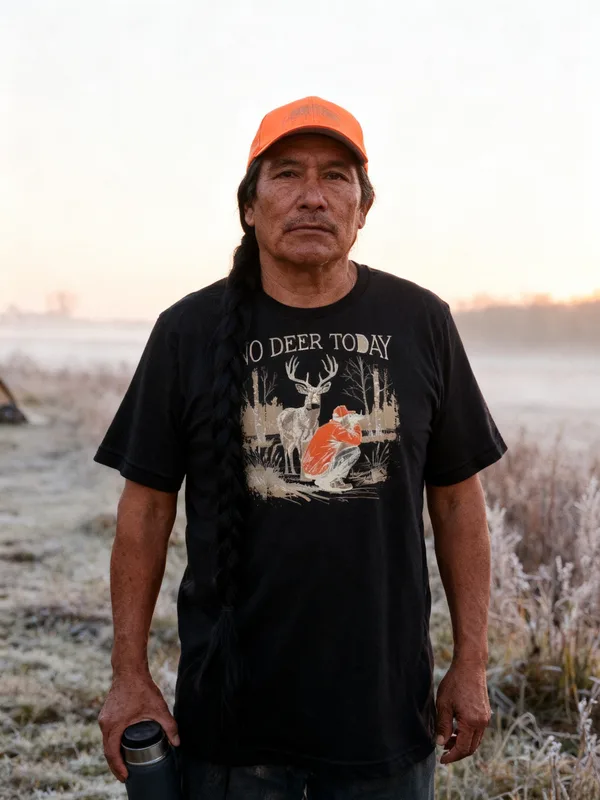
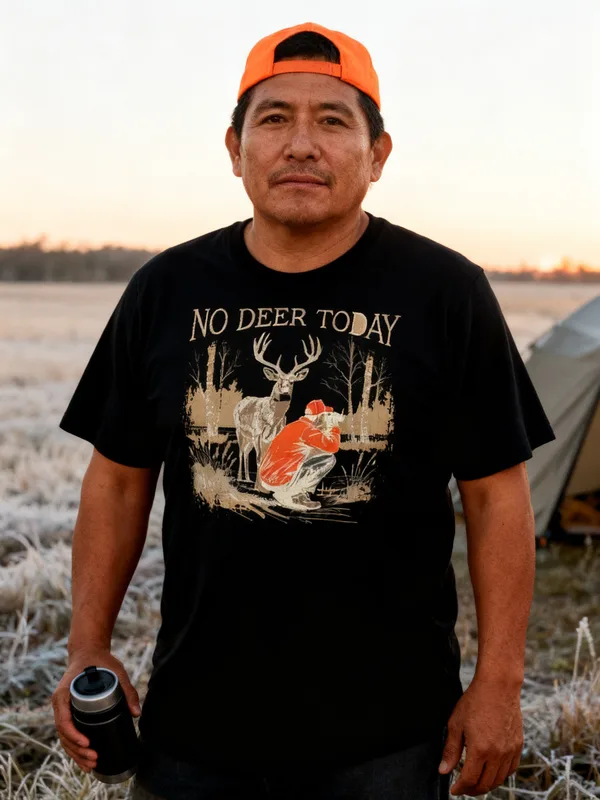
[B] redo 157 cover -> review

diff --git a/src/data/covers.ts b/src/data/covers.ts
@@ -25,7 +25,7 @@ export const covers: Record<string, { src: string; alt: string }> = {
   'unisex-christmas-fresh-cut-christmas-trees-graphic-tee': { src: '/covers/unisex-christmas-fresh-cut-christmas-trees-graphic-tee.webp', alt: 'Man and woman at a Christmas tree farm next to a red vintage pickup wearing the Fresh Cut Christmas Trees tee' },
   'unisex-christmas-cabin-christmas-graphic-tee': { src: '/covers/unisex-christmas-cabin-christmas-graphic-tee.webp', alt: 'Man and woman outside a snowy log cabin at dusk with warm window light and Christmas lights on the porch wearing the Cabin Christmas tee' },
   'womens-thanksgiving-give-thanks-graphic-tee': { src: '/covers/womens-thanksgiving-give-thanks-graphic-tee.webp', alt: 'Woman at an outdoor Thanksgiving table in the backyard wearing the Give Thanks tee' },
-  'mens-hunting-first-light-buck-graphic-tee': { src: '/covers/mens-hunting-first-light-buck-graphic-tee.webp', alt: 'Man with a long braid and a blaze-orange cap holding a thermos at a frosty deer camp at dawn, wearing the No Deer Today tee' },
+  'mens-hunting-first-light-buck-graphic-tee': { src: '/covers/mens-hunting-first-light-buck-graphic-tee.webp', alt: 'Man with short black hair and a blaze-orange cap holding a thermos at a frosty deer camp at dawn, wearing the No Deer Today tee' },
   'mens-hunting-marsh-morning-graphic-tee': { src: '/covers/mens-hunting-marsh-morning-graphic-tee.webp', alt: 'Man with a white beard in waders at a marsh edge at dawn with duck decoys and a thermos, wearing the Quack of Dawn tee' },
   'unisex-western-desert-rider-graphic-tee': { src: '/covers/unisex-western-desert-rider-graphic-tee.webp', alt: 'Man and woman at a horse ranch at sunset leaning on a corral fence wearing the Desert Rider tee' },
   'mens-gym-iron-sweat-graphic-tee': { src: '/covers/mens-gym-iron-sweat-graphic-tee.webp', alt: 'Man with a trimmed goatee holding a water bottle in a retro neighborhood gym, wearing the Sore Since 1987 tee' },

diff --git a/docs/intake-log.md b/docs/intake-log.md
@@ -1,4 +1,5 @@
 2026-10-16 18:44 UTC — [H] Helper run: Telegram inbox empty (getUpdates returned no messages, nothing to consume). Audit: 184 live products, 0 errors, 7 warnings (polish only, left alone); no price, SEO or collection errors to fix. Announcement bar already reads the holiday line (R12.3). Site freshness: #191 nutcracker bow hoodie, #190 highland cow hoodie, #184 clean plate club hoodie all return 200. Stuck check: none. Lane A last commit 18:30, lane B committed 18:41 (its RUNNING line is from 16:36 but the lane is active, so no alert). Daily summary already sent today (12:43). Lock released.
+2026-10-16 18:44 UTC — [B] REVIEW #157 (redo): cover only (R6.9 redo): new model (registry row 400, short cropped hair) so nothing crosses the print, generated from the Black mockup with 3 images per call, covers.ts alt updated. #227's long-braid row is retired.
 2026-10-16 18:41 UTC — [B] REVIEW #165 (redo): in-place redo of the ACTIVE product: new Recraft art (Conflict Resolution, try 1), single original-ink file for all 4 light colors, 30 variants re-syncing, new mockups + variant images + cover (#235, 3 images per call, best kept), copy unchanged (still accurate).
 2026-10-16 18:35 UTC — [D] Director run 7: 27 REVIEW items. LIVE (ACTIVE + Online Store + Headless, audit --handle PASS): #146 Define Naughty tee, #148 Jolly-ish, #189 Vintage Santa hoodie, #200 Penguins hoodie, #177 Opening Day zip, #179 Kaiju Naps + #180 Mecha Mondays oversized, #181 Matcha cropped, #186 Slurp, #187 Low Battery, #188 Lake Life hoodies, embroidery pilot #192 #196 #197, men's redos #153 #154 #155 #156 #158 #163. REDO: #147 #178 #185 #150 #157 (covers: cup over words, sherpa hood, dropped word, redrawn print, braid over the first word), #198 (default font), #199 (steam reads as ?). Copy fixes: 146/189 production notes, 196 olive→leafy, 197 thread color; cover alts in covers.ts. Rulebook: R6.9 one extra cover attempt + overlap check, R4.8 pilot result, R7.5 funny/retro style tags, R11.6 built, R12.1 new-blank prices. Audit: embroidered hoodies may join embroidered-sweatshirts; -camo-hoodie and -half-zip prices; half-zip-pullovers allowed. Collections: retro-graphic-tees, funny-graphic-tees (65 tees tagged), camo-hoodies, zip-up-hoodies-for-men, oversized-hoodies-for-men, gym-hoodies-for-men, half-zip-pullovers, graphic-hoodies-for-women. Queue: lane A 14 READY (208-221), lane B 17 READY (193-195 unparked, 222-235). Registry #279-309 reserved. Inbox: style collections + men's scan done; cold-weather sweep partly done (rest listed OPEN). Telegram: 2 pings. Lock released.
 2026-10-16 18:30 UTC — [A] Run summary: fal unlocked, built 22 items. REVIEW: #140 (redo), #146, #147, #148, #189 (redo), #190, #191, #200. DRAFTS awaiting Printful sync (Printful allows ~10 variant links/min across all lanes; set REVIEW only when synced = count; command in each item log, 'setfile'): #144 redraw (57, keep BUILDING, old art still on file), #149 (36), #150 (47), #151 (30), #161 (47), #162 (30), #169 (47), #170 (36), #171 (30), #172 (36), #201-#207 (12 each). Next lane A run: finish those syncs first (python3 scripts/pf-sync.py status <id>), then flip to REVIEW. PARKED: #159/#160 (handles already live; see log). Cover flags for the director: #150, #151 lettering garbled in photo, #205 man shows no hood. Helpers documented in docs/builder-tools.md. Lock released.

diff --git a/docs/pipeline/157-hunting-first-light-buck-redo.md b/docs/pipeline/157-hunting-first-light-buck-redo.md
@@ -1,4 +1,4 @@
-status: REDO
+status: REVIEW
 reason: paused for cold-weather, resume after (Sam, 2026-10-16: evergreen tees wait until every cold-weather collection reaches 14, R11.5).
 lane: B
 type: redo
@@ -28,3 +28,4 @@ handle: mens-hunting-first-light-buck-graphic-tee
 - 2026-10-16 19:45 UTC director: REDO (product stays ACTIVE, cover only). Notes:
   1. R6.9 (cover overlap): the man's long braid lies over the left edge of the print, so the line reads "O DEER TODAY". The product is ACTIVE with this cover, so fix it soon: one more attempt (R6.9) with the Black tee mockup as the `--design` reference, hair behind the shoulder or a different registry person with short hair (log the row), thermos at his side.
   2. Art, files, sync, mockups and copy are approved: only the cover changes. Status goes back to REVIEW with the new cover.
+- 2026-10-16 18:44 UTC [B]: REDO done: cover only (R6.9 redo): new model (registry row 400, short cropped hair) so nothing crosses the print, generated from the Black mockup with 3 images per call, covers.ts alt updated. #227's long-braid row is retired. Review sheet docs/review/157.jpg.

diff --git a/docs/model-registry.md b/docs/model-registry.md
@@ -293,3 +293,4 @@ Rows 11–43 were re-pointed on 2026-10-08 when the briefs were rewritten from d
 | 307 | Hmong-American man in his early 30s, short spiky black hair | RESERVED — #233 Tree Sitter camo hoodie cover |
 | 308 | Greek-American man in his late 20s, dark wavy hair, trimmed beard, muscular | RESERVED — #234 Study in Hypertrophy oversized hoodie cover |
 | 309 | White man in his mid 50s, grey crew cut, sunglasses pushed up on his head | RESERVED — #235 Reel Talk half zip cover |
+| 400 | Native American man in his mid 40s, short cropped black hair, blaze-orange cap | USED 2026-10-16 — #157 No Deer Today cover redo (replaces #227's long-braid model whose braid covered the print; fal Seedream 4 from the Black tee mockup, 3 images, best kept) |

diff --git a/docs/pipeline/178-hunting-zip-deer-diary.md b/docs/pipeline/178-hunting-zip-deer-diary.md
@@ -1,4 +1,4 @@
-status: REDO
+status: BUILDING [B] 2026-10-16
 lane: B
 type: twin
 id: 178

diff --git a/docs/pipeline/185-gym-hoodie-leg-day-survivor.md b/docs/pipeline/185-gym-hoodie-leg-day-survivor.md
@@ -1,4 +1,4 @@
-status: REDO
+status: BUILDING [B] 2026-10-16
 lane: B
 type: twin
 id: 185

diff --git a/docs/pipeline/198-embroidered-mens-out-of-office-hoodie.md b/docs/pipeline/198-embroidered-mens-out-of-office-hoodie.md
@@ -1,4 +1,4 @@
-status: REDO
+status: BUILDING [B] 2026-10-16
 lane: B
 type: new
 id: 198

diff --git a/docs/pipeline/199-embroidered-extra-marshmallows-crewneck.md b/docs/pipeline/199-embroidered-extra-marshmallows-crewneck.md
@@ -1,4 +1,4 @@
-status: REDO
+status: BUILDING [B] 2026-10-16
 lane: B
 type: new
 id: 199
